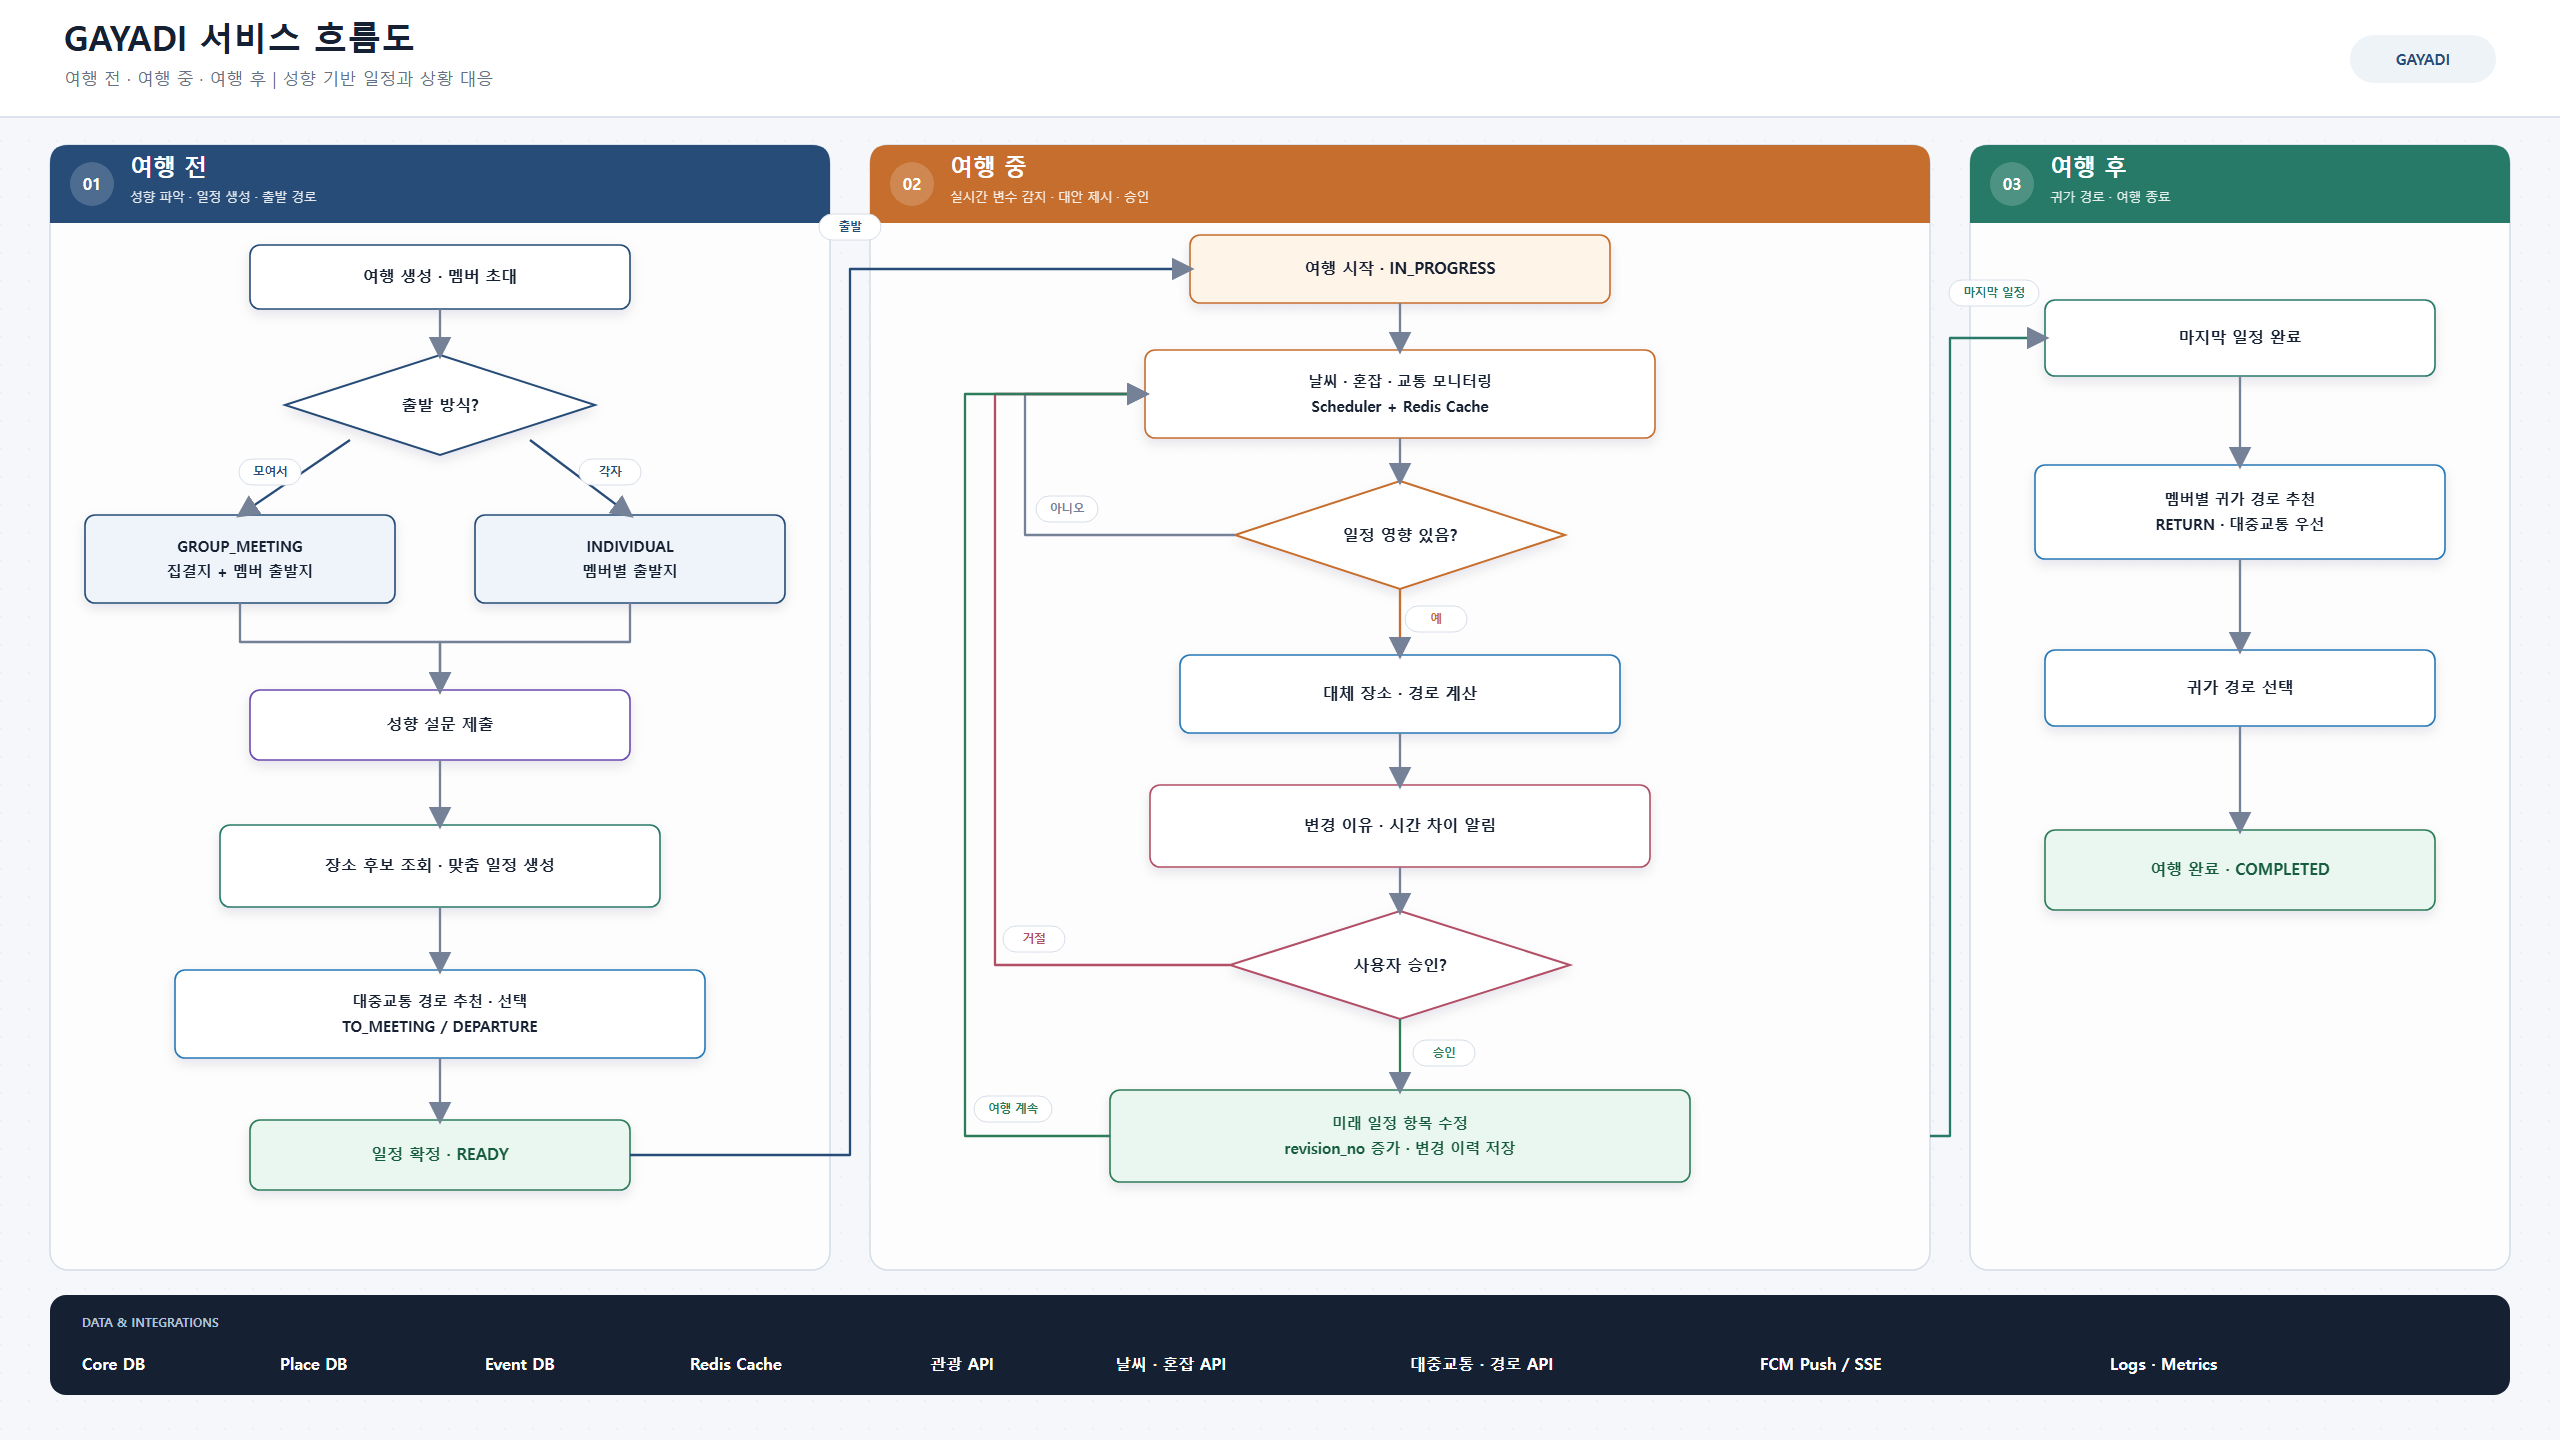
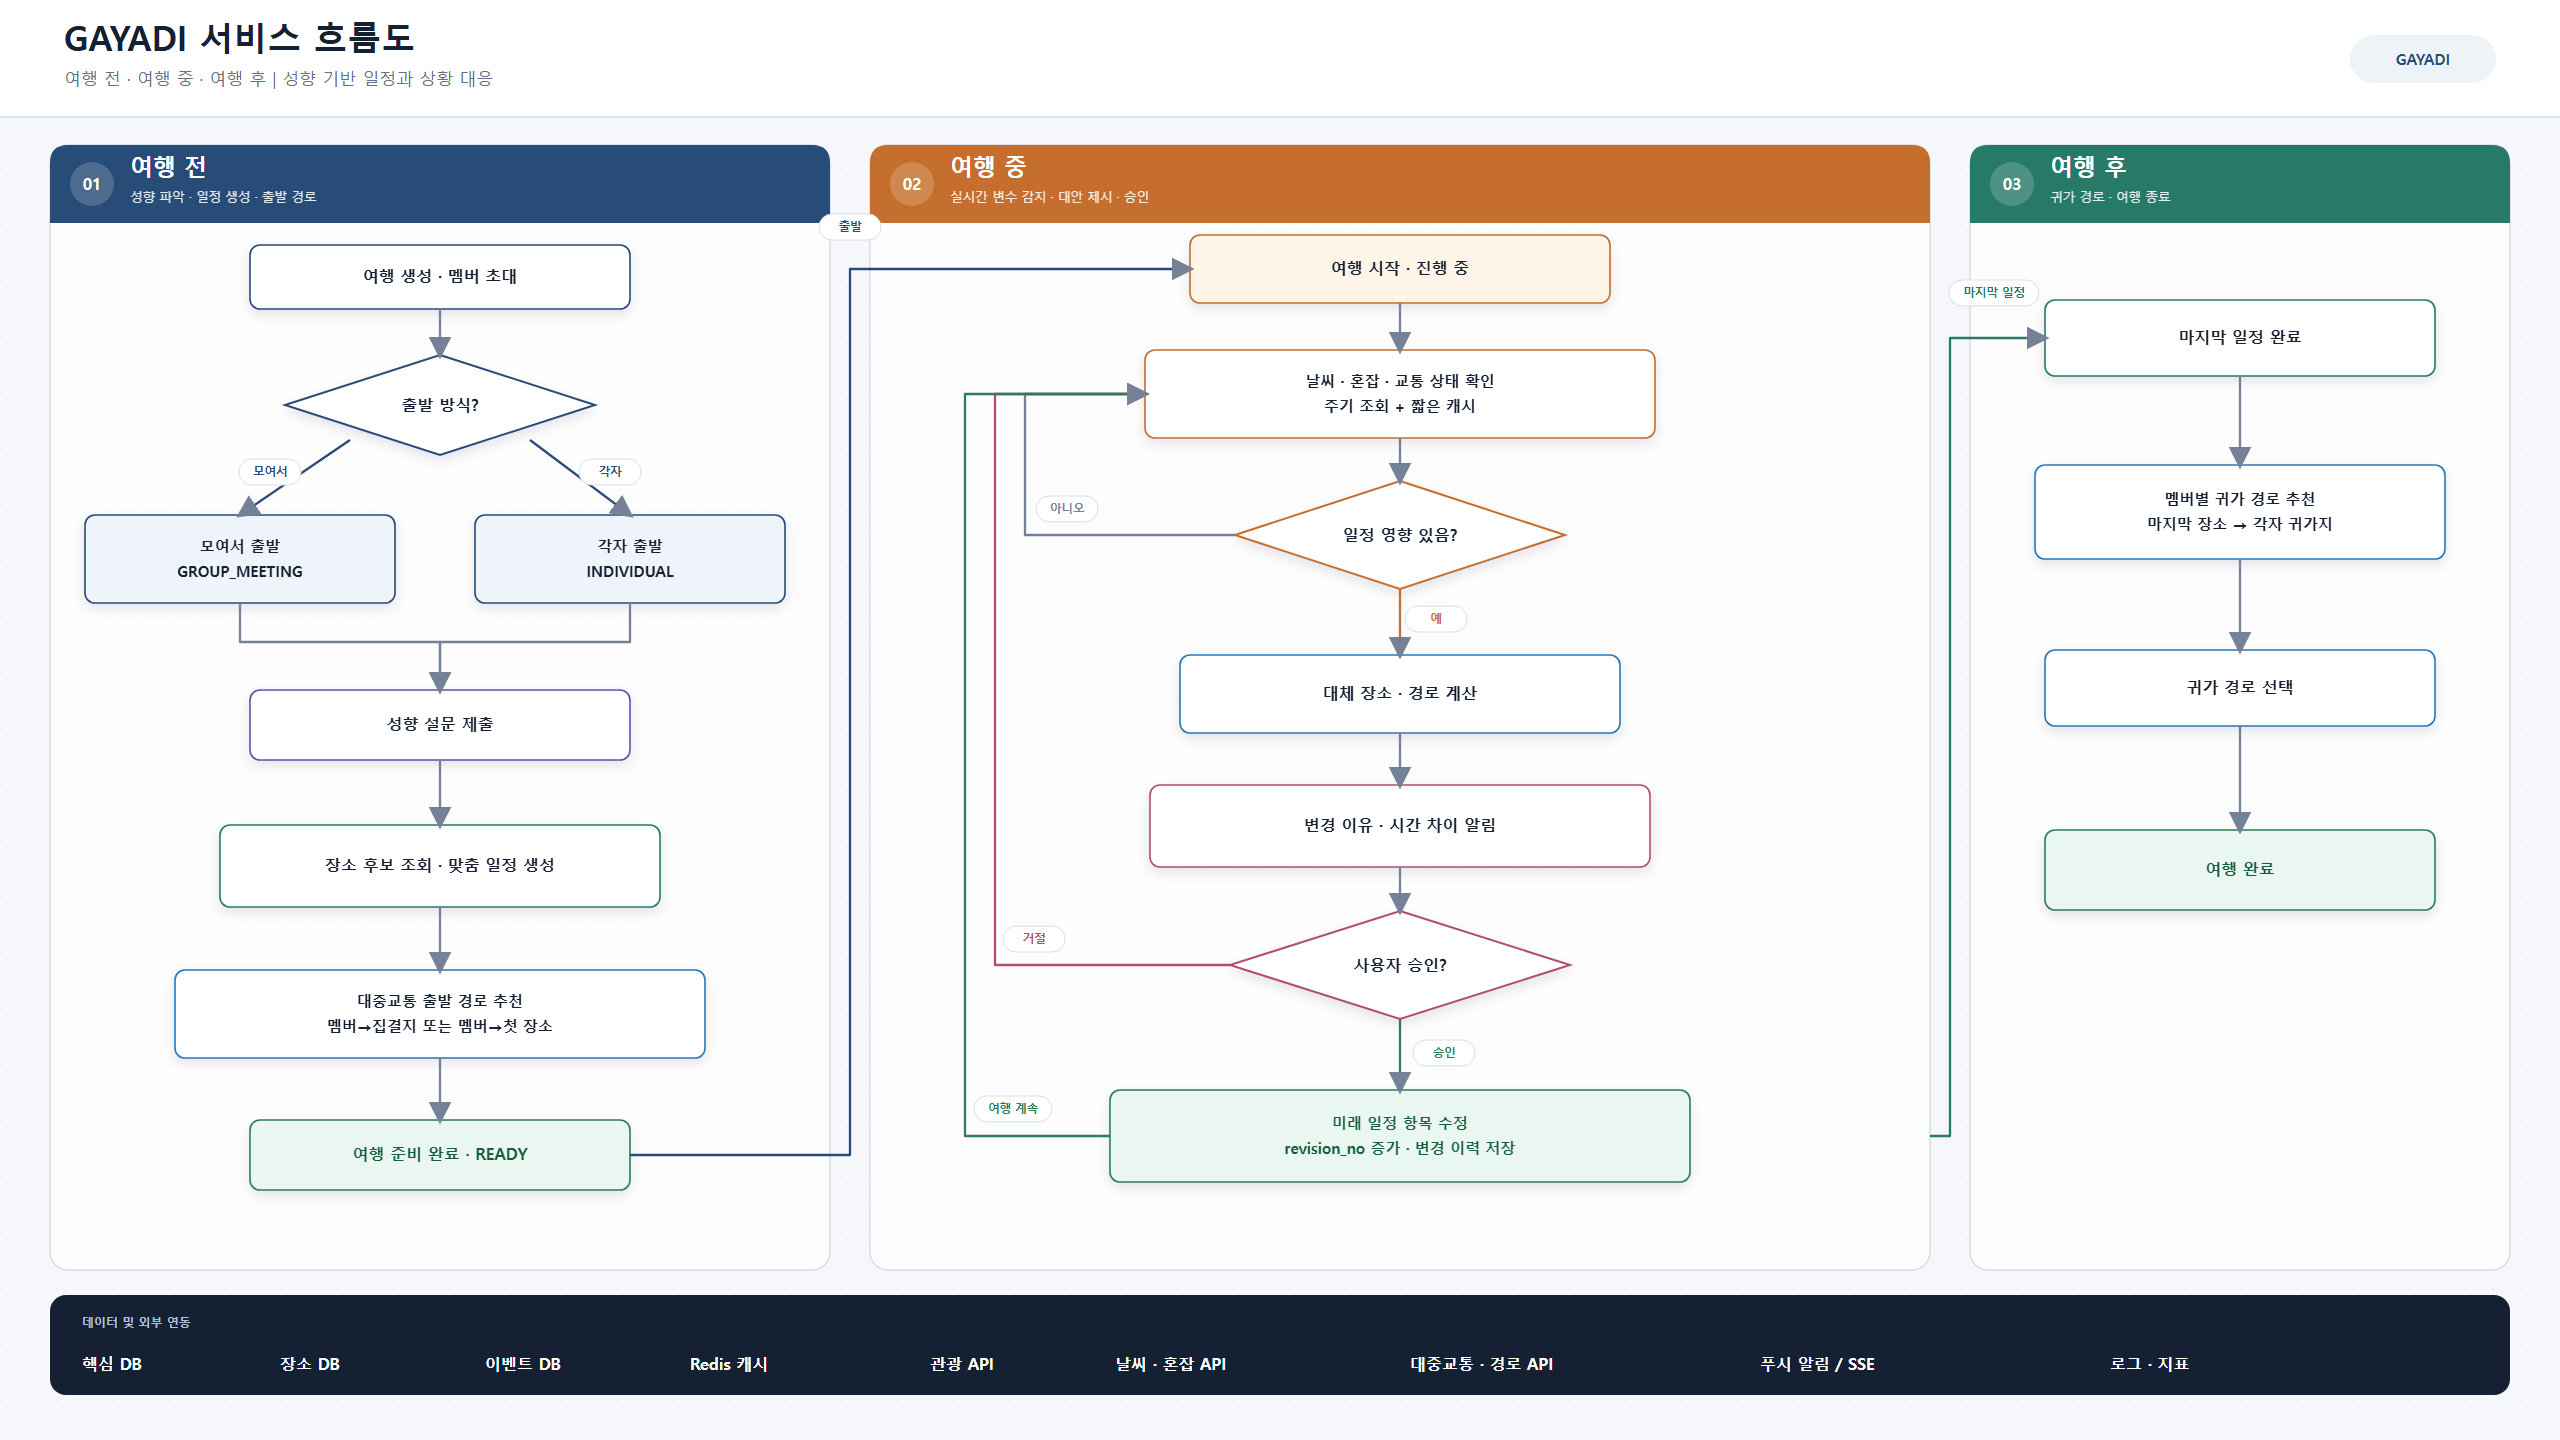
문서: 발표용 설계 자료를 한국어로 정리

diff --git a/docs/architecture/gayadi-service-design.md b/docs/architecture/gayadi-service-design.md
@@ -190,10 +190,9 @@ erDiagram
 
 ```mermaid
 flowchart TB
-    APP[Android 앱] --> EDGE[HTTPS · API Gateway / Load Balancer]
+    APP[모바일 앱] --> API[REST API · 입력 검증]
 
-    subgraph SERVER[Spring Boot Modular Monolith]
-        EDGE --> API[Controller · 인증/권한 · 입력 검증]
+    subgraph SERVER[Spring Boot 모듈러 모놀리스]
         API --> USECASE[Application Service\n여행 전·중·후 유스케이스 조합]
 
         USECASE --> AUTH[인증·사용자]
@@ -203,29 +202,21 @@ flowchart TB
         USECASE --> PLACE[장소 검색·동기화]
         USECASE --> EVENT[날씨·혼잡·교통 이벤트]
         USECASE --> ROUTE[경로 추천·선택]
-        USECASE --> NOTIFY[알림·SSE]
+        USECASE --> COMMON[공통 예외·검증]
 
-        SCHEDULER[Scheduler\n이벤트 수집·캐시 갱신] --> EVENT
         EVENT --> PLAN
         PLAN --> ROUTE
-        PLAN --> NOTIFY
-
-        ADAPTER[External API Adapter\ntimeout · retry · circuit breaker]
-        AUTH --> ADAPTER
-        PLACE --> ADAPTER
-        EVENT --> ADAPTER
-        ROUTE --> ADAPTER
     end
 
-    USECASE --> PG[(PostgreSQL\ncore · place · event schema)]
-    USECASE --> REDIS[(Redis\nAPI 응답 캐시 · 분산 락 · 임시 경로 후보)]
-    ADAPTER --> EXT[OAuth · 관광 · 날씨 · 혼잡 · 교통 API]
-    NOTIFY --> PUSH[FCM Push / SSE]
-    API --> OBS[Logs · Metrics · Tracing]
-    ADAPTER --> SECRET[Secret Manager]
+    USECASE --> DB[(H2 로컬 · PostgreSQL 운영)]
+    PLACE -. 운영 연동 .-> PLACE_API[관광·지도 API]
+    EVENT -. 운영 연동 .-> EVENT_API[날씨·혼잡 API]
+    ROUTE -. 운영 연동 .-> ROUTE_API[대중교통 경로 API]
+    PLAN -. 운영 연동 .-> PUSH[FCM Push · SSE]
+    USECASE -. 선택 도입 .-> REDIS[(Redis 캐시)]
 ```
 
-위 모듈들은 각각 별도 서버가 아니라 하나의 Spring Boot 애플리케이션 안에 있는 코드 경계다. Controller가 모듈을 직접 섞어 호출하지 않고, Application Service가 여행 생성·코스 추천·실시간 변경 같은 유스케이스를 조합한다.
+위 모듈들은 각각 별도 서버가 아니라 하나의 Spring Boot 애플리케이션 안에 있는 코드 경계다. 현재 MVP는 로컬 어댑터로 끝까지 실행되며, 실제 관광·날씨·혼잡·교통 공급자는 같은 인터페이스의 운영 어댑터로 교체한다. Controller가 모듈을 직접 섞어 호출하지 않고, Application Service가 여행 생성·코스 추천·실시간 변경 같은 유스케이스를 조합한다.
 
 ### 7.1 모듈 책임
 
@@ -238,29 +229,33 @@ flowchart TB
 | 장소 | 장소 검색, 외부 장소 ID 매핑, 기본 정보 동기화 |
 | 이벤트 | 날씨·혼잡·교통 데이터 정규화, 일정 영향 이벤트 생성 |
 | 경로 | 외부 경로 API 호출, 후보 캐시, 선택 경로 저장 |
-| 알림 | 변경 제안 Push 발송, 앱 실행 중 SSE 전달 |
-| External API Adapter | 공급자별 요청/응답 변환, timeout, retry, circuit breaker |
+| 공통 | 예외 응답, 입력 검증, 공통 설정 |
+| 외부 연동 어댑터 | 공급자별 요청/응답 변환, timeout, retry, circuit breaker |
 
 ### 7.2 데이터와 백그라운드 처리
 
-- PostgreSQL: 사용자, 여행, 설문 응답, 일정, 장소, 판단에 사용한 이벤트
-- Redis: 자주 바뀌는 날씨·혼잡·경로 응답, 아직 선택하지 않은 경로 후보, 분산 락
-- Scheduler: 출발이 임박했거나 진행 중인 여행의 장소만 선별해 외부 데이터를 갱신
+- H2: 별도 설치 없이 로컬에서 전체 흐름을 확인하기 위한 개발용 DB
+- PostgreSQL: 사용자, 여행, 설문 응답, 일정, 장소, 판단에 사용한 이벤트를 보관하는 운영 DB
+- Redis(선택): 자주 바뀌는 날씨·혼잡·경로 응답과 아직 선택하지 않은 경로 후보를 짧게 캐시
+- Scheduler(운영 연동 시): 출발이 임박했거나 진행 중인 여행의 장소만 선별해 외부 데이터를 갱신
 - 외부 API Adapter: 공급자가 바뀌어도 도메인 모듈이 영향을 적게 받도록 표준 모델로 변환
-- Push/SSE: 백그라운드에서는 Push, 앱에서 여행 화면을 보는 동안에는 SSE 사용
+- Push/SSE(운영 연동 시): 백그라운드에서는 Push, 앱에서 여행 화면을 보는 동안에는 SSE 사용
 - 알림 재시도: `change_proposals.notified_at`이 없는 제안을 다시 발송해 일시적 Push 실패를 복구
 
 ### 7.3 MVP와 확장 기준
 
-- MVP: Spring Boot 1개, PostgreSQL 1개, Redis 1개로 시작한다.
+- 현재 MVP: Spring Boot 애플리케이션 1개와 H2 또는 PostgreSQL 1개로 시작한다.
+- 외부 응답량이나 호출 비용이 커질 때 Redis 캐시를 추가한다.
 - 서버가 여러 대가 되면 Scheduler 중복 실행을 Redis 분산 락으로 막는다.
 - 외부 데이터 수집과 일정 재계산이 API 응답을 지연시킬 때 Worker를 분리한다.
 - 알림과 변경 이벤트가 크게 늘어날 때 이벤트 큐를 추가한다.
 - `core`, `place`, `event` DB는 데이터량과 운영 주기가 실제로 달라질 때 물리적으로 분리한다.
 
-확장형 배치 구조는 아래 이미지를 참고한다. MVP 구성과 혼동하지 않도록 Worker, 이벤트 큐, OpenSearch는 확장 조건이 충족된 뒤 도입한다.
+아래 그림은 현재 서버 경계와 출시 전 연동 지점을 함께 보여준다. 실선은 현재 MVP, 점선은 운영 연동 예정 범위다.
 
-![GAYADI 확장형 아키텍처](./travel-realtime-architecture.png)
+![GAYADI 서비스 아키텍처](../presentation/gayadi-service-architecture-presentation.png)
+
+[확대 가능한 SVG 원본](../presentation/gayadi-service-architecture-presentation.svg)
 
 ## 8. 서비스 흐름도
 

diff --git a/docs/presentation/README.md b/docs/presentation/README.md
@@ -1,0 +1,25 @@
+# GAYADI 발표용 설계 자료
+
+세 그림은 같은 서비스를 서로 다른 관점에서 설명한다.
+
+1. [ERD](gayadi-erd-presentation.svg): 어떤 데이터를 저장하고 테이블이 어떻게 연결되는지 보여준다. `TRIPS`를 중심으로 여행 멤버, 설문 응답, 일정, 장소, 이벤트, 경로를 읽으면 된다.
+2. [서비스 아키텍처](gayadi-service-architecture-presentation.svg): Spring Boot 애플리케이션 내부 모듈과 DB·외부 API의 경계를 보여준다. 실선은 현재 MVP, 점선은 운영 연동 예정 범위다.
+3. [서비스 흐름도](gayadi-service-flow-presentation.svg): 여행 전, 여행 중, 여행 후에 사용자가 경험하는 흐름과 각 단계에서 사용하는 데이터를 보여준다.
+
+## 발표할 때 강조할 내용
+
+- 출발 방식은 `모여서 출발`과 `각자 출발` 두 가지이며, 멤버별 출발 경로 추천에 반영한다.
+- 설문은 문항별 테이블을 과도하게 나누지 않고, 하나의 설문 응답과 JSON 답변으로 단순화했다.
+- 일정은 현재 확정본 하나를 유지하고 `revision_no`로 변경 이력을 구분한다. 비·혼잡 같은 변수로 대안이 생겨도 사용자가 승인하기 전에는 현재 일정을 바꾸지 않는다.
+- 장소·날씨·혼잡·경로 원문 전체를 영구 저장하지 않는다. 장소 기본 정보와 실제 추천 판단에 사용한 이벤트·선택 경로만 기록한다.
+- 장소와 이벤트 데이터는 현재 한 DB에서 시작하지만, 규모가 커지면 별도 DB나 서비스로 분리할 수 있도록 식별자와 모듈 경계를 유지한다.
+
+## 이미지 재생성
+
+저장소 루트에서 다음 명령을 실행한다.
+
+```bash
+node scripts/generate-presentation-diagrams.cjs
+```
+
+PNG는 슬라이드 삽입용이고, SVG는 확대·편집용 원본이다.

diff --git a/README.md b/README.md
@@ -79,10 +79,10 @@ DB_PASSWORD=...
 - [서비스 설계서](docs/architecture/gayadi-service-design.md)
 - [ERDCloud Import SQL](docs/database/gayadi-erdcloud.sql)
 - [발표용 ERD PNG](docs/presentation/gayadi-erd-presentation.png) / [SVG](docs/presentation/gayadi-erd-presentation.svg)
+- [발표용 서비스 아키텍처 PNG](docs/presentation/gayadi-service-architecture-presentation.png) / [SVG](docs/presentation/gayadi-service-architecture-presentation.svg)
 - [발표용 서비스 흐름도 PNG](docs/presentation/gayadi-service-flow-presentation.png) / [SVG](docs/presentation/gayadi-service-flow-presentation.svg)
-- [확장형 아키텍처 이미지](docs/architecture/travel-realtime-architecture.png)
 
-발표 이미지는 `scripts/generate-presentation-diagrams.cjs`로 재생성할 수 있습니다.
+세 그림은 각각 데이터 구조, 서버 구성, 여행 전·중·후 사용자 흐름을 설명합니다. 서비스 아키텍처의 실선은 현재 MVP에 구현된 연결이고, 점선은 실제 출시 전에 공급자 API와 연결할 영역입니다. 발표 이미지는 `scripts/generate-presentation-diagrams.cjs`로 재생성할 수 있습니다.
 
 ## 아직 운영 연동이 필요한 범위
 
